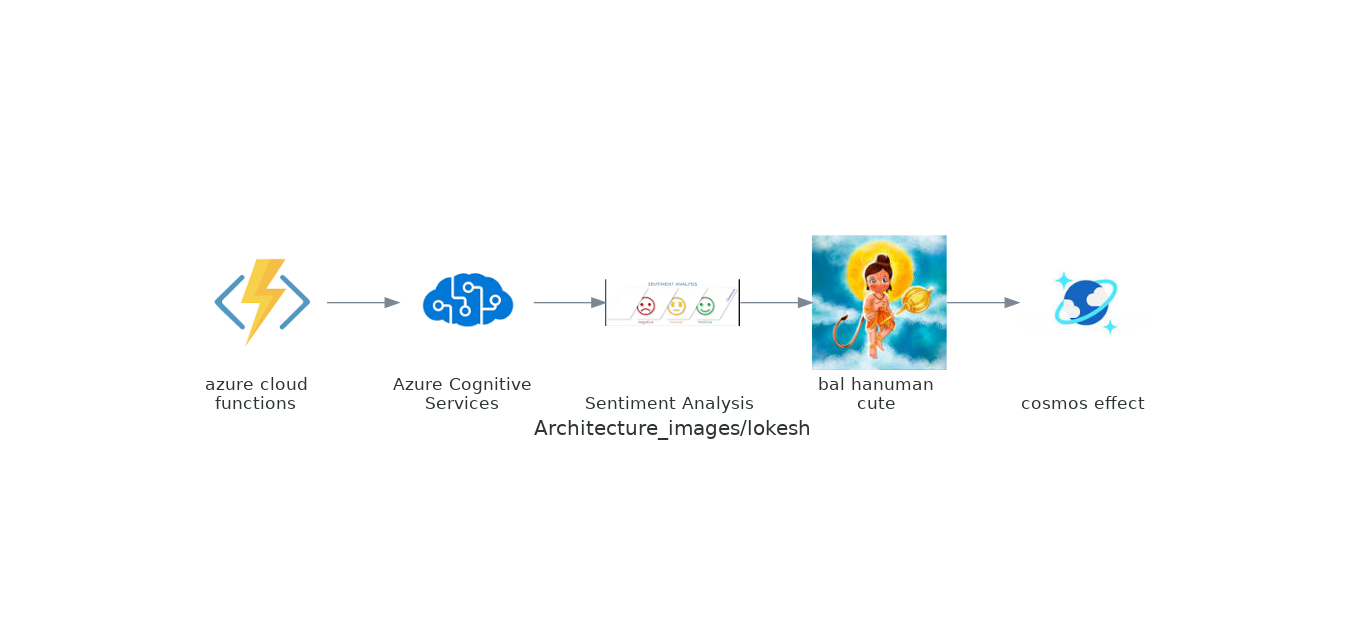
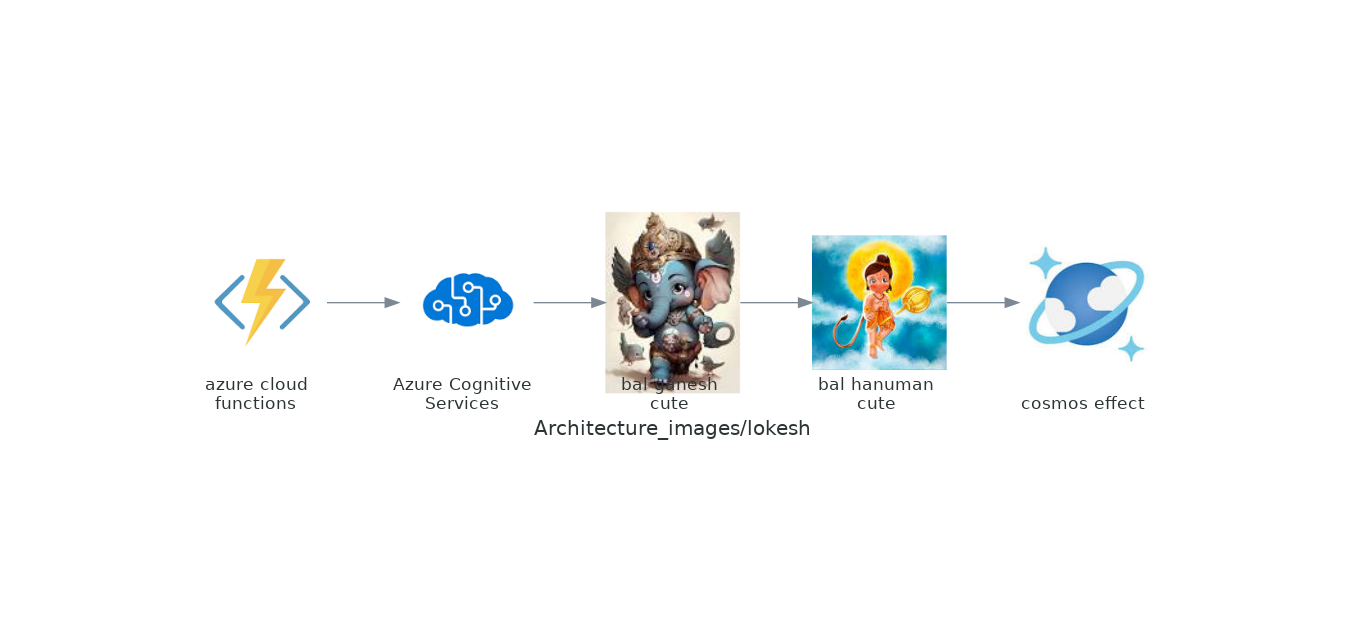
Move files to new folder

Changed region(s): [[0.4372, 0.3271, 0.5621, 0.6541], [0.7494, 0.3865, 0.8743, 0.5649]]

diff --git a/mermaid.html b/mermaid.html
@@ -1,0 +1,24 @@
+<!DOCTYPE html>
+<html lang=en>
+<head>
+    <meta charset=UTF-8>
+    <meta name=viewport content=width=device-width initial-scale=1.0>
+    <title>Generated Architecture</title>
+    <link rel=stylesheet href=https://cdn.jsdelivr.net/npm/mermaid@10/dist/mermaid.min.css>
+</head>
+<body>
+    <div class=mermaid>
+        graph LR
+        A[azure cloud functions] --> B[Azure Cognitive Services]
+        B --> C[bal ganesh cute]
+        C --> D[bal hanuman cute]
+        D --> E[cosmos effect]
+    </div>
+    <script src=https://cdn.jsdelivr.net/npm/mermaid@10/dist/mermaid.min.js></script>
+    <script>
+        mermaid.initialize({
+                        startOnLoad: true
+                    });
+    </script>
+</body>
+</html>

diff --git a/dynamically_generated_stuff/dynamic_diagrams_code.py b/dynamically_generated_stuff/dynamic_diagrams_code.py
@@ -32,20 +32,20 @@ with Diagram("Architecture_images/lokesh", show=False):
     urlretrieve(get_image_urls("icon of bal hanuman cute in AZURE"), "/home/runner/work/Archimage_Generator/Archimage_Generator/dynamically_generated_stuff/temp_src_images/bal_hanuman_cute_icon.png")
     bal_hanuman_cute_ = Custom("bal hanuman \ncute ", "/home/runner/work/Archimage_Generator/Archimage_Generator/dynamically_generated_stuff/temp_src_images/bal_hanuman_cute_icon.png")
 
-    urlretrieve(get_image_urls("icon of azure cloud functions in AZURE"), "/home/runner/work/Archimage_Generator/Archimage_Generator/dynamically_generated_stuff/temp_src_images/azure_cloud_functions_icon.png")
-    azure_cloud_functions_ = Custom("azure cloud \nfunctions ", "/home/runner/work/Archimage_Generator/Archimage_Generator/dynamically_generated_stuff/temp_src_images/azure_cloud_functions_icon.png")
-
-    urlretrieve(get_image_urls("icon of Sentiment Analysis in AZURE"), "/home/runner/work/Archimage_Generator/Archimage_Generator/dynamically_generated_stuff/temp_src_images/Sentiment_Analysis_icon.png")
-    Sentiment_Analysis_ = Custom("Sentiment Analysis \n", "/home/runner/work/Archimage_Generator/Archimage_Generator/dynamically_generated_stuff/temp_src_images/Sentiment_Analysis_icon.png")
-
     urlretrieve(get_image_urls("icon of cosmos effect in AZURE"), "/home/runner/work/Archimage_Generator/Archimage_Generator/dynamically_generated_stuff/temp_src_images/cosmos_effect_icon.png")
     cosmos_effect_ = Custom("cosmos effect \n", "/home/runner/work/Archimage_Generator/Archimage_Generator/dynamically_generated_stuff/temp_src_images/cosmos_effect_icon.png")
 
     urlretrieve(get_image_urls("icon of Azure Cognitive Services in AZURE"), "/home/runner/work/Archimage_Generator/Archimage_Generator/dynamically_generated_stuff/temp_src_images/Azure_Cognitive_Services_icon.png")
     Azure_Cognitive_Services_ = Custom("Azure Cognitive \nServices ", "/home/runner/work/Archimage_Generator/Archimage_Generator/dynamically_generated_stuff/temp_src_images/Azure_Cognitive_Services_icon.png")
 
+    urlretrieve(get_image_urls("icon of bal ganesh cute in AZURE"), "/home/runner/work/Archimage_Generator/Archimage_Generator/dynamically_generated_stuff/temp_src_images/bal_ganesh_cute_icon.png")
+    bal_ganesh_cute_ = Custom("bal ganesh \ncute ", "/home/runner/work/Archimage_Generator/Archimage_Generator/dynamically_generated_stuff/temp_src_images/bal_ganesh_cute_icon.png")
+
+    urlretrieve(get_image_urls("icon of azure cloud functions in AZURE"), "/home/runner/work/Archimage_Generator/Archimage_Generator/dynamically_generated_stuff/temp_src_images/azure_cloud_functions_icon.png")
+    azure_cloud_functions_ = Custom("azure cloud \nfunctions ", "/home/runner/work/Archimage_Generator/Archimage_Generator/dynamically_generated_stuff/temp_src_images/azure_cloud_functions_icon.png")
+
 
     azure_cloud_functions_ >> Azure_Cognitive_Services_
-    Azure_Cognitive_Services_ >> Sentiment_Analysis_
-    Sentiment_Analysis_ >> bal_hanuman_cute_
+    Azure_Cognitive_Services_ >> bal_ganesh_cute_
+    bal_ganesh_cute_ >> bal_hanuman_cute_
     bal_hanuman_cute_ >> cosmos_effect_
